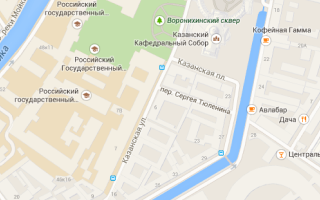
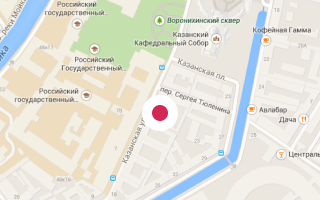
Доработала разметку главной страницы

Changed region(s): [[0.4375, 0.48, 0.5625, 0.66]]

diff --git a/source/index.html b/source/index.html
@@ -7,9 +7,9 @@
   <body class="page__body">
     <header class="page-header">
       <a class="page-header__logo">
-        <img src="img/pink.png" alt="pink logo">
+        <img src="img/pink.svg" alt="pink logo">
       </a>
-      <nav class="main-navigation">
+      <nav class="main-nav">
         <button class="main-nav__toggle" type="button"><span class="visually-hidden">Открыть мобильное меню</span></button>
         <div class="main-nav__wrapper">
           <ul class="main-nav__list">
@@ -41,11 +41,8 @@
             <p class="download-the-app__slogan">
             Взгляните на жизнь иначе!
             </p>
-            <div class="download-the-app--image">
-              <img src="img/phone.png" alt="phone in hand">
-              <div class="download-the-app--background-image">
-                <img src="img/screen.png" alt="phone in hand">
-              </div>
+            <div class="download-the-app__image">
+              <img src="img/phone-hand.png" alt="phone in hand">
             </div>
           </div>
           <div class="download-the-app__bottom-side">
@@ -69,7 +66,7 @@
       <section class="offers">
         <div class="offers__wrapper">
           <h2 class="visually-hidden">Предложения от Pink!</h2>
-          <header class="offres__header">
+          <header class="offers__header">
             <p class="offers__slogan">
             Устали от серости мегаполиса?
             </p>
@@ -105,10 +102,7 @@
               </li>
             </ul>
             <div class="offers__image">
-              <img src="img/iphone-3.png" alt="phone">
-              <div class="offers__image-background">
-                <img src="img/iphone-screen-3.png" alt="phome's background">
-              </div>
+              <img src="img/phone-3.png" alt="phone">
             </div>
           </div>
         </div>
@@ -118,7 +112,7 @@
         <div class="user-reviews__wrapper slider">
           <h2 class="visually-hidden">Отзывы пользователей</h2>
           <ul class="user-reviews__list slider__list">
-            <li class="user-reviews__item slider__item">
+            <li class="user-reviews__item slider__item" id="user-1">
               <h2 class="user-reviews__user-name">Николай Петров</h2>
               <h3 class="user-reviews__user-description">25 лет, водитель трамвая</h3>
               <p class="user-reviews__user-text">«Это приложение перевернуло мой мир и позволило по-новому взглянуть
@@ -126,7 +120,7 @@
                 фотографии!»
               </p>
             </li>
-            <li class="user-reviews__item slider__item">
+            <li class="user-reviews__item slider__item" id="user-2">
               <h2 class="user-reviews__user-name">Николай Петров</h2>
               <h3 class="user-reviews__user-description">25 лет, водитель трамвая</h3>
               <p class="user-reviews__user-text">«Это приложение перевернуло мой мир и позволило по-новому взглянуть
@@ -134,7 +128,7 @@
                 фотографии!»
               </p>
             </li>
-            <li class="user-reviews__item slider__item">
+            <li class="user-reviews__item slider__item" id="user-3">
               <h2 class="user-reviews__user-name">Николай Петров</h2>
               <h3 class="user-reviews__user-description">25 лет, водитель трамвая</h3>
               <p class="user-reviews__user-text">«Это приложение перевернуло мой мир и позволило по-новому взглянуть
@@ -144,82 +138,92 @@
             </li>
           </ul>
           <p class="user-reviews__toggles slider__toggles">
-            <button class="slider__toggle slider__toggle--current" type="button">1</button>
-            <button class="slider__toggle" type="button">2</button>
-            <button class="slider__toggle" type="button">3</button>
+            <a href="#user-1" class="slider__toggle slider__toggle--current">1</a>
+            <a href="#user-2" class="slider__toggle">2</a>
+            <a href="#user-3" class="slider__toggle">3</a>
           </p>
         </div>
       </section>
 
       <section class="price">
-        <div class="price-wrapper">
+        <div class="price__wrapper slider">
           <h2 class="visually-hidden">Тарифы приложения.</h2>
-          <ul class="price__list slider__list">
-            <li class="price__item slider__item">
-              <div class="price__name">
+
+
+					<table class="slides">
+						<tr>
+							<th class="price__transparent-block">1</th>
+							<th class="price__title" id="price-1">
                 <h2 class="price__title">База</h2>
                 <p class="price__sum">1,99 USD</p>
-              </div>
-              <div class="price__option-pink">
-                <p class="price__option-name">Розовый фильтр</p>
-                <p class="price__option-value enabled">Yes</p>
-              </div>
-              <div class="price__option-smiles">
-                <p class="price__option-name">Смайлики</p>
-                <p class="price__option-value">No</p>
-              </div>
-              <div class="price__option-comments">
-                <p class="price__option-name">Комментарии</p>
-                <p class="price__option-value">No</p>
-              </div>
-            </li>
-            <li class="price__item slider__item">
-              <div class="price__name hit">
-                <h2 class="price__title">СТАНДАРТ</h2>
+							</th>
+							<th class="price__title" id="price-2">
+                <h2 class="price__title">Стандарт</h2>
                 <p class="price__sum">3,99 USD</p>
-              </div>
-              <div class="price__option-pink">
-                <p class="price__option-name">Розовый фильтр</p>
-                <p class="price__option-value enabled">Yes</p>
-              </div>
-              <div class="price__option-smiles">
-                <p class="price__option-name">Смайлики</p>
-                <p class="price__option-value enabled">Yes</p>
-              </div>
-              <div class="price__option-comments">
-                <p class="price__option-name">Комментарии</p>
-                <p class="price__option-value">No</p>
-              </div>
-            </li>
-            <li class="price__item slider__item">
-              <div class="price__name">
-                <h2 class="price__title">АНЛИМ</h2>
+							</th>
+							<th class="price__title" id="price-3">
+                <h2 class="price__title">Анлим</h2>
                 <p class="price__sum">9,99 USD</p>
-              </div>
-              <div class="price__option-pink">
-                <p class="price__option-name">Розовый фильтр</p>
-                <p class="price__option-value enabled">Yes</p>
-              </div>
-              <div class="price__option-smiles">
-                <p class="price__option-name">Смайлики</p>
-                <p class="price__option-value enable">Yes</p>
-              </div>
-              <div class="price__option-comments">
-                <p class="price__option-name">Комментарии</p>
-                <p class="price__option-value enable">Yes</p>
-              </div>
-            </li>
-          </ul>
+							</th>
+						</tr>
+						<tr>
+							<td class="price__option-name mobile-hidden">Розовый фильтр</td>
+							<td class="price__option-value">
+								<span class="desktop-hidden">Розовый фильтр</span>
+								<span class="enable">Yes</span>
+							</td>
+							<td class="price__option-value">
+								<span class="desktop-hidden">Розовый фильтр</span>
+								<span class="enable">Yes</span>
+							</td>
+							<td class="price__option-value">
+								<span class="desktop-hidden">Розовый фильтр</span>
+								<span class="enable">Yes</span>
+							</td>
+						</tr>
+						<tr>
+							<td class="price__option-name mobile-hidden">Смайлики</td>
+							<td class="price__option-value">
+								<span class="desktop-hidden">Смайлики</span>
+								<span>No</span>
+							</td>
+							<td class="price__option-value">
+								<span class="desktop-hidden">Смайлики</span>
+								<span class="enable">Yes</span>
+							</td>
+							<td class="price__option-value">
+								<span class="desktop-hidden">Смайлики</span>
+								<span class="enable">Yes</span>
+							</td>
+						</tr>
+						<tr>
+							<td class="price__option-name mobile-hidden">Комментарии</td>
+							<td class="price__option-value">
+								<span class="desktop-hidden">Комментарии</span>
+								<span>No</span>
+							</td>
+							<td class="price__option-value">
+								<span class="desktop-hidden">Комментарии</span>
+								<span>No</span>
+							</td>
+							<td class="price__option-value">
+								<span class="desktop-hidden">Комментарии</span>
+								<span class="enable">Yes</span>
+							</td>
+						</tr>
+					</table>
+
+
           <p class="price__toggles slider__toggles">
-            <button class="slider__toggle slider__toggle--current" type="button">1</button>
-            <button class="slider__toggle" type="button">2</button>
-            <button class="slider__toggle" type="button">3</button>
+						<a href="#price-1" class="slider__toggle slider__toggle--current">1</a>
+						<a href="#price-2" class="slider__toggle">2</a>
+						<a href="#price-3" class="slider__toggle">3</a>
           </p>
         </div>
       </section>
 
-      <section class="contac-info">
-        <div class="contact-info__wrapper">
+      <section class="contact-info">
+        <address class="contact-info__wrapper">
           <h2 class="visually-hidden">Контактная информация для связи</h2>
           <p class="contact-info__title">Остались вопросы?<br>
             Свяжитесь с нами!
@@ -235,18 +239,15 @@
             </li>
             <li class="contact-info__item">
               <h3 class="contact-info__title">Приезжайте в гости:</h3>
-              <a>ул. Большая Конюшенная, 19/8</a>
+              <a href="https://goo.gl/maps/FFvPNicZ5M7JyyS56">ул. Большая Конюшенная, 19/8</a>
             </li>
           </ul>
-        </div>
+        </address>
       </section>
 
       <section class="map">
         <div class="map__image">
-          <img src="img/map.png" alt="phome's background">
-          <div class="map__marker">
-            <img src="img/map-marker.png" alt="phome's background">
-          </div>
+          <img src="img/map.png" alt="map">
         </div>
       </section>
     </main>
@@ -254,25 +255,25 @@
     <footer class="page-footer">
       <div class="page-footer__wrapper">
         <div class="page-footer__logo">
-          <img src="img/glasses.png" alt="glasses logo">
-          <img src="img/pink.png" alt="pink logo">
+          <img src="img/glasses.svg" alt="glasses logo">
+          <img src="img/pink.svg" alt="pink logo">
         </div>
       </div>
       <div class="page-footer__social">
         <ul class="page-footer__social-list">
           <li class="page-footer__social-item">
             <a href="https://www.instagram.com/htmlacademy">
-              <img src="img/twitter.png" alt="twitter icon">
+              <img src="img/twitter.svg" alt="twitter icon">
             </a>
           </li>
           <li class="page-footer__social-item">
             <a href="https://www.facebook.com/htmlacademy">
-              <img src="img/facebook.png" alt="facebook icon">
+              <img src="img/facebook.svg" alt="facebook icon">
             </a>
           </li>
           <li class="page-footer__social-item">
             <a href="https://www.youtube.com/user/htmlacademyru">
-              <img src="img/youtube.png" alt="youtube icon">
+              <img src="img/youtube.svg" alt="youtube icon">
             </a>
           </li>
         </ul>
@@ -280,7 +281,7 @@
       <div class="page-footer__copyright">
         <b class="copyright__text">Разработано:</b>
         <a class="copyright__link" href="https://htmlacademy.ru/intensive/adaptive">
-          <img src="img/html-academy.png" alt="html academy icon">
+          <img src="img/html-academy.svg" alt="html academy icon">
         </a>
       </div>
     </footer>
